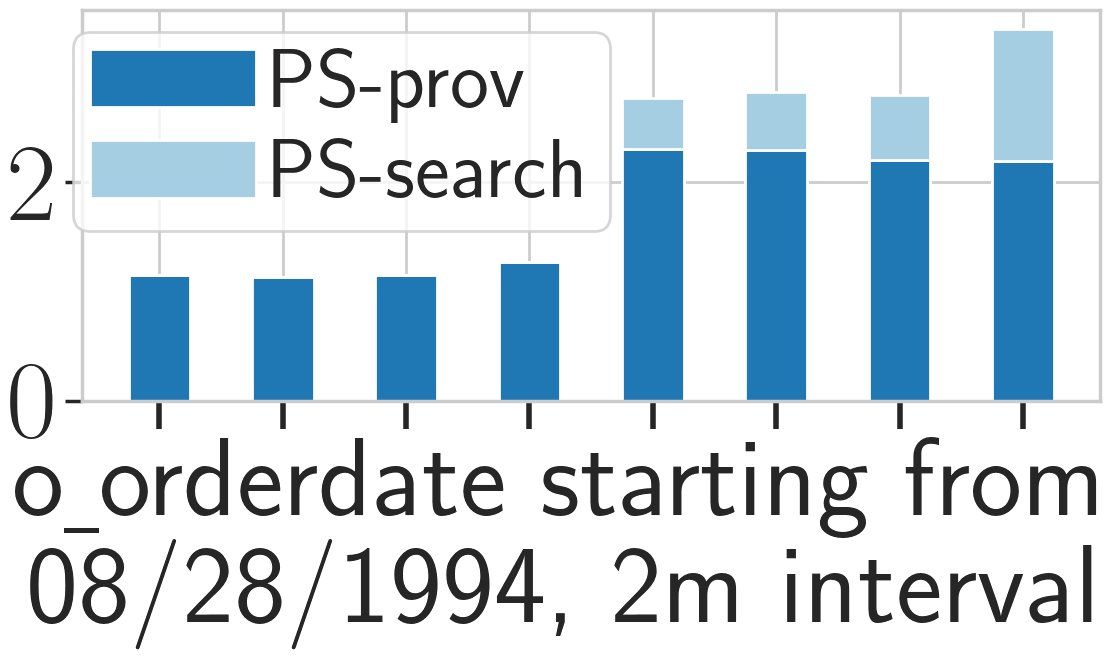
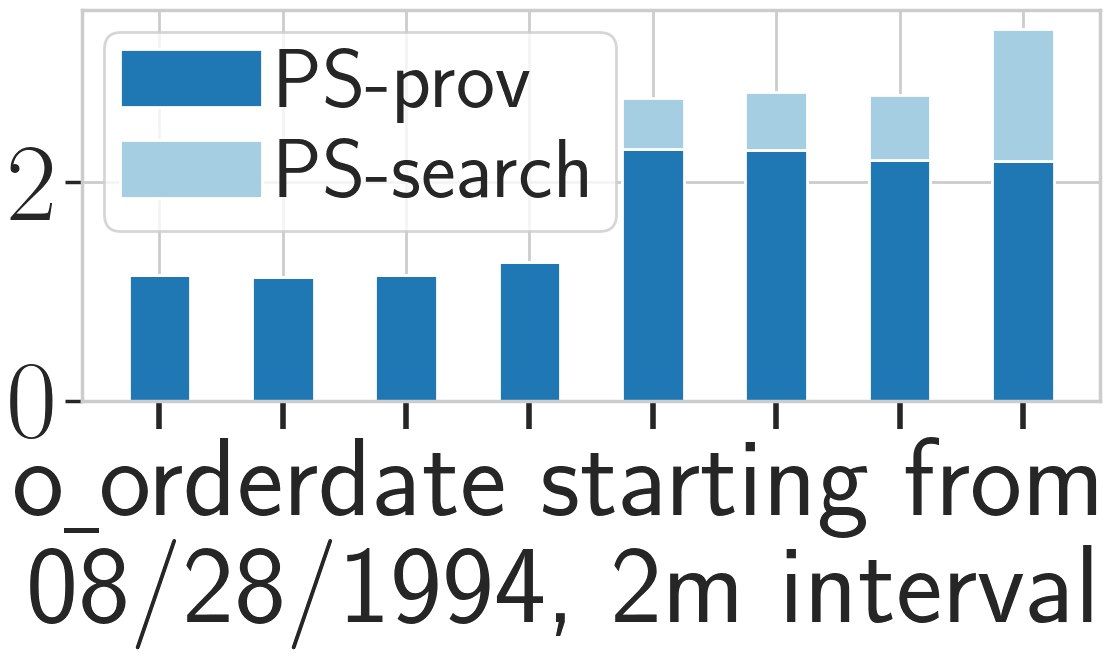
tpch 100M query selectivity fix fig handle size

Changed region(s): [[0.2144, 0.2121, 0.5514, 0.303], [0.2144, 0.0606, 0.4901, 0.1818], [0.0613, 0.0303, 0.1225, 0.3636]]

diff --git a/Experiment/TPCH/100M/query_selectivity2/q3_contract/fig.py b/Experiment/TPCH/100M/query_selectivity2/q3_contract/fig.py
@@ -89,9 +89,9 @@ def run(query, size, constraint):
                fontsize=80, weight='bold').set_position((0.47, -0.1))
 
 
-    plt.legend(loc='upper left', bbox_to_anchor=(-0.05, 1.05), fontsize=60,
+    plt.legend(loc='upper left', bbox_to_anchor=(-0.02, 1.05), fontsize=60,
                ncol=1, labelspacing=0.2, handletextpad=0.2, markerscale=0.3,
-               columnspacing=0.2, borderpad=0.2, frameon=True)
+               columnspacing=0.2, borderpad=0.2, handlelength=1.7, frameon=True)
 
     # plt.legend(loc='upper left', bbox_to_anchor=(-0.05, 1.07), fontsize=65)
     plt.tight_layout()
